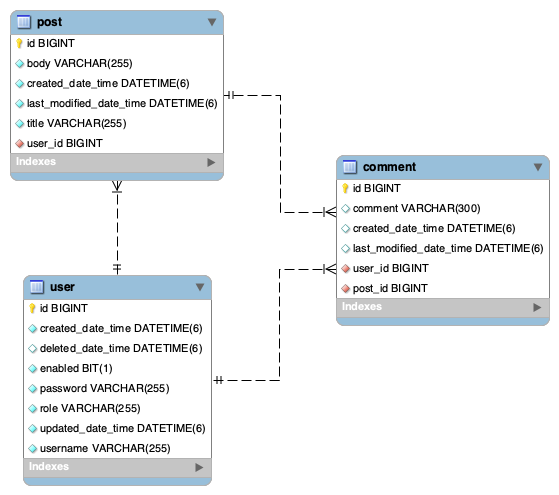
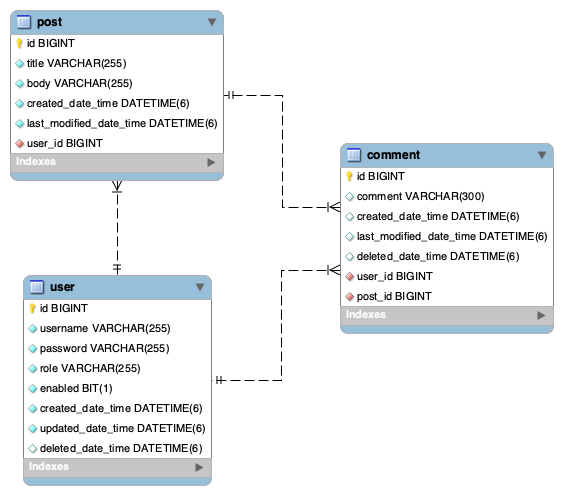
[Docs] README.md 수정

diff --git a/README.md b/README.md
@@ -4,11 +4,11 @@
 
 ---
 
-### 1주차 미션 요약
+### 2주차 미션 요약
 
 #### 필수과제
 
-- [ ] 댓글
+- [x] 댓글
 - [ ] 좋아요
 - [ ] 마이피드
 - [ ] 알림
@@ -101,21 +101,22 @@
 
 ## URL
 ### FE
-> http://ec2-43-200-183-93.ap-northeast-2.compute.amazonaws.com
+> ~~http://ec2-43-200-183-93.ap-northeast-2.compute.amazonaws.com~~
 
 ### BE
-> http://ec2-43-200-183-93.ap-northeast-2.compute.amazonaws.com:8080
+> http://api.hmin.site:8080
 
 ### Swagger
-> http://ec2-43-200-183-93.ap-northeast-2.compute.amazonaws.com:8080/swagger-ui/index.html
+> http://api.hmin.site:8080/swagger-ui/index.html
 
 ### 데모 로그인
 
+**User**
 > ID : user1
 >
 > PW : user1234
 
-Admin
+**Admin**
 > ID : admin
 > 
 > PW : qwer1234
@@ -301,7 +302,6 @@ Admin
 {
   "comment" : "String"
 }
-
 ```
 
 **Response Body**
@@ -339,5 +339,43 @@ Admin
     "empty": boolean
   }
 }
+```
 
+#### 댓글 수정
+`PUT /posts/{postId}/comments/{id}`
+
+**Request Body**
+```json
+{
+  "comment" : "String"
+}
+```
+
+**Response Body**
+```json
+{
+  "resultCode": "SUCCESS",
+  "result":{
+    "id": 0,
+    "comment": "String",
+    "userName": "String",
+    "postId": 0,
+    "createdAt": "yyyy-mm-dd hh:mm:ss",
+    "lastModifiedAt": "yyyy-mm-dd hh:mm:ss"
+  }
+}
+```
+
+#### 댓글 삭제
+`DELETE /posts/{postId}/comments/{id}`
+
+**Response Body**
+```json
+{
+  "resultCode": "SUCCESS",
+  "result":{
+    "message": "댓글 삭제 완료",
+    "id": 0
+  }
+}
 ```
